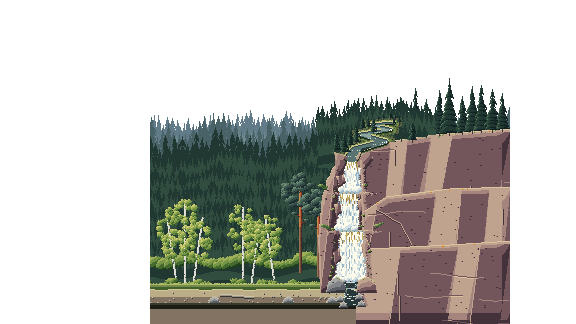
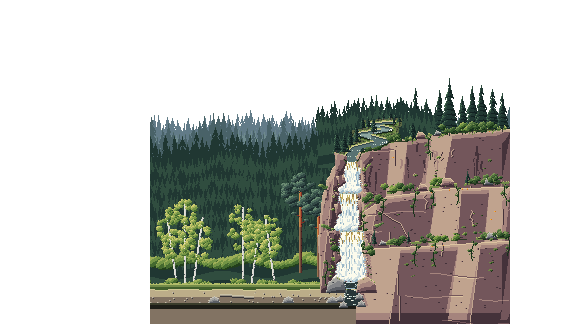
Bring the bluff's bare face to life
Rain stains under the ledges, branching cracks with grass and moss in
them, and along the bluff's real ledges a fringe of grass and moss with
shrubs, spruce saplings, resting boulders and hanging creepers
(life() in tools/studio/study_mountain.py, used by tools/scenery/bank.py).

Claude-Session: https://claude.ai/code/session_01AFuv3xBDCFNHg8cxuFG86Z

diff --git a/tools/studio/study_mountain.py b/tools/studio/study_mountain.py
@@ -362,7 +362,193 @@ def gorge(c):
     common(c)
 
 
+# ---------------------------------------------------------------- life on the rock
+
+GRANITE = ("pink-granite", "lichen")
+
+
+def rock_at(c, x, y):
+    p = c.at(x, y)
+    return p is not None and p[0] in GRANITE and (x, y) not in c.front
+
+
+def stains(c, xs, rnd):
+    """Dark streaks where water runs down the face after rain, starting
+    under a ledge and fading as they go."""
+    for x in xs:
+        y = next((y for y in range(120, 300) if rock_at(c, x, y)), None)
+        if y is None:
+            continue
+        y += rnd.randrange(4, 30)
+        for k in range(rnd.randrange(10, 34)):
+            for dx in (0, 1) if k < 12 else (0,):
+                if rock_at(c, x + dx, y + k) and (k < 8 or rnd.random() < 0.7):
+                    p = c.at(x + dx, y + k)
+                    c.put(x + dx, y + k, "pink-granite", max(0, p[1] - 1))
+            if rnd.random() < 0.15:
+                x += rnd.choice((-1, 1))
+
+
+def fissure(c, x, y, n, rnd, plants=True):
+    """A crack that wanders down the face and branches: a dark line with the
+    lit lip of the rock above and left of it, and something green growing
+    from it here and there."""
+    for k in range(n):
+        if not rock_at(c, x, y):
+            break
+        c.put(x, y, "pink-granite", 0)
+        if rock_at(c, x - 1, y - 1):
+            c.put(x - 1, y - 1, "pink-granite", 3)
+        if plants and rnd.random() < 0.06:
+            b.blob(c, x + rnd.choice((-1, 1)), y, rnd.randrange(1, 3), rnd.choice(("moss", "grass")),
+                   steps=(3, 2, 1, 0), rnd=rnd, flat=0.7)
+        if rnd.random() < 0.08 and n - k > 6:
+            fissure(c, x + rnd.choice((-1, 1)), y + 1, (n - k) // 2, rnd, plants)
+        y += 1
+        x += rnd.choice((-1, 0, 0, 0, 1))
+
+
+def ledges(c, x0, x1, y0, y1):
+    """The places on the face where something could rest or root: rock
+    with open air, or a lit ledge edge, just above it."""
+    out = []
+    for x in range(x0, x1):
+        for y in range(y0, y1):
+            p = c.at(x, y)
+            if rock_at(c, x, y) and p[1] >= 3 and rock_at(c, x, y + 2) and rock_at(c, x, y + 4):
+                out.append((x, y))
+    return out
+
+
+def boulder(c, x, y, w, mat, rnd):
+    """A boulder resting on a ledge, lit as one rounded mass, a dark line of
+    shadow under it."""
+    h = max(4, w * 2 // 3)
+    pts = [(x - w // 2, y), (x - w // 2 + 1, y - h + 2), (x - w // 4, y - h), (x + w // 4, y - h + 1), (x + w // 2, y - h // 2), (x + w // 2, y)]
+    m = b.poly_mask(pts)
+    b.pillow(c, m, mat, seed=x * 7 + y, flecks=False)
+    for xx in range(x - w // 2 - 1, x + w // 2 + 2):
+        if rock_at(c, xx, y + 1):
+            c.put(xx, y + 1, "pink-granite", 0)
+
+
+def tuft(c, x, y, rnd):
+    """Grass and sedge in a crack or on a ledge: a few blades, lit at the
+    tips on the sun's side."""
+    for k in range(rnd.randrange(3, 6)):
+        h = rnd.randrange(2, 5)
+        lean = rnd.choice((-1, 0, 1))
+        for j in range(h):
+            c.put(x + k - 2 + (lean if j > h // 2 else 0), y - j, "grass", 3 if j == h - 1 and k < 3 else 2 if j else 1)
+
+
+def shrub(c, x, y, rnd, mat="aspen-leaves"):
+    """A low bush rooted on a ledge: a few leaf clusters, darker at the root."""
+    for k in range(rnd.randrange(5, 9)):
+        b.blob(c, x + rnd.randrange(-7, 8), y - rnd.randrange(1, 7), rnd.randrange(2, 5), mat, steps=(3, 2, 1, 0), rnd=rnd, flat=0.8)
+    for k in range(-4, 5):
+        c.put(x + k, y, "floor", 1)
+
+
+def vine(c, x, y, n, rnd):
+    """A creeper hanging down the face from a ledge: a stem that sways a
+    pixel side to side, leaves in pairs and clusters along it, thinning to
+    a few at the tip."""
+    for k in range(n):
+        xx = x + round(1.5 * math.sin(k / 4 + x))
+        c.put(xx, y + k, "cedar-foliage", 0)
+        if k % 3 == 0 and rnd.random() < 1 - k / (n * 1.3):
+            side = 1 if (k // 3) % 2 else -1
+            c.put(xx + side, y + k, "cedar-foliage", 3 if side < 0 else 2)
+            c.put(xx + side * 2, y + k + 1, "cedar-foliage", 2 if side < 0 else 1)
+        if k % 7 == 2 and k < n - 4:
+            b.blob(c, xx + rnd.choice((-2, 2)), y + k, 2, "cedar-foliage", steps=(3, 2, 1, 0), rnd=rnd, flat=0.8)
+
+
+def sapling(c, x, y, h, rnd):
+    """A young spruce growing out of a crack, leaning out a little."""
+    b.spruce(c, x, y, h, "spruce-needles", seed=x * 11 + y, ratio=0.45, trunk=2)
+
+
+def life(c, seed=200):
+    """Brings the bare face of the bluff to life: rain stains under its
+    ledges, cracks that wander and branch with green in them, boulders
+    resting on its ledges, grass, shrubs and saplings rooted along them,
+    creepers hanging down from them, moss in its shade, and a little lichen."""
+    rnd = random.Random(seed)
+    stains(c, [rnd.randrange(214, 356) for _ in range(14)] + [rnd.randrange(170, 186) for _ in range(3)], rnd)
+    for _ in range(9):
+        x, y = rnd.randrange(216, 356), rnd.randrange(136, 250)
+        fissure(c, x, y, rnd.randrange(8, 24), rnd)
+    for _ in range(2):
+        fissure(c, rnd.randrange(170, 186), rnd.randrange(170, 260), rnd.randrange(10, 20), rnd)
+    # along each of the bluff's real ledges: its top edge and the tops of
+    # its stepped slabs, where soil gathers and things can root
+    lines = [[(214, 0), (362, 0)], [(212, 212), (236, 196), (300, 188), (362, 186)],
+             [(176, 262), (220, 248), (300, 244), (362, 240)]]
+    for li, line in enumerate(lines):
+        edge = []
+        for x in range(line[0][0], line[-1][0]):
+            if li == 0:
+                y = next((y for y in range(110, 200) if rock_at(c, x, y)), None)
+            else:
+                k = max(i for i in range(len(line) - 1) if line[i][0] <= x)
+                (ax, ay), (bx, by) = line[k], line[k + 1]
+                guess = round(ay + (by - ay) * (x - ax) / max(1, bx - ax))
+                y = next((y for y in range(guess - 3, guess + 5) if rock_at(c, x, y)), None)
+            if y is not None:
+                edge.append((x, y))
+        # a fringe of grass and moss in clumps along the edge
+        i = 0
+        while i < len(edge):
+            run = rnd.randrange(3, 14)
+            if rnd.random() < 0.65:
+                for x, y in edge[i:i + run]:
+                    c.put(x, y - 1, "grass", 2)
+                    c.put(x, y, "moss", 2)
+                    if rnd.random() < 0.4:
+                        c.put(x, y - 2, "grass", 3)
+            i += run + rnd.randrange(2, 8)
+        # then shrubs, boulders, saplings and tufts on it, creepers off it
+        last = -99
+        for x, y in edge:
+            if x - last < rnd.randrange(7, 13):
+                continue
+            last = x
+            r = rnd.random()
+            if r < 0.3:
+                shrub(c, x, y - 1, rnd, rnd.choice(("aspen-leaves", "cedar-foliage", "cedar-foliage")))
+            elif r < 0.42:
+                boulder(c, x, y, rnd.randrange(7, 13), rnd.choice(("grey-gneiss", "pink-granite")), rnd)
+            elif r < 0.52 and li > 0:
+                sapling(c, x, y, rnd.randrange(10, 17), rnd)
+            elif r < 0.8:
+                vine(c, x, y + 1, rnd.randrange(14, 38), rnd)
+            else:
+                tuft(c, x, y - 1, rnd)
+    # a few tufts and ferns in the cracks of the open face
+    for _ in range(10):
+        x, y = rnd.randrange(216, 356), rnd.randrange(140, 280)
+        if rock_at(c, x, y) and c.at(x, y)[1] == 0:
+            tuft(c, x, y, rnd)
+    # moss in the shade, a little lichen in the sun
+    for _ in range(40):
+        x, y = rnd.randrange(214, 358), rnd.randrange(136, 280)
+        p = c.at(x, y)
+        if rock_at(c, x, y) and p[1] <= 1:
+            b.blob(c, x, y, rnd.randrange(1, 3), "moss", steps=(2, 2, 1, 0), rnd=rnd, flat=0.6)
+        elif rock_at(c, x, y) and p[1] >= 3 and rnd.random() < 0.4:
+            c.put(x, y, "lichen", 2)
+            c.put(x + 1, y, "lichen", 1)
+
+
+def plateau_life(c):
+    plateau(c)
+    life(c)
+
+
 VERSIONS = {"A": ravine, "B": plateau, "C": gorge}
+LIFE = {"life": plateau_life}
 
 
 def export(name, fn):

diff --git a/tools/scenery/bank.py b/tools/scenery/bank.py
@@ -8,7 +8,10 @@ the river comes down a notch worn into the bluff's top and drops down
 three of the bluff's own ledges, among boulders at the foot, into a pool
 and out between stones to the lake. Above it (study 4, version B, the
 plateau river) the river winds toward us across the forested plateau in
-its own opening, with banks, gravel bars and trees on its far banks. Drawn by the study's tools
+its own opening, with banks, gravel bars and trees on its far banks. The
+bluff's face has life on it: rain stains, branching cracks with green in
+them, and along its ledges grass, shrubs, saplings, boulders and hanging
+creepers (study_mountain.life). Drawn by the study's tools
 (tools/studio/study_bank.py) from the materials library, in daylight; the
 game's time-of-day grade shades it.
 
@@ -25,4 +28,4 @@ import study_mountain as mountain  # noqa: E402
 
 def images():
     """(land, falls strip, anchors) for the art build."""
-    return s.images(s.version_c(mountain.plateau))
+    return s.images(s.version_c(mountain.plateau_life))

diff --git a/docs/studio/studies.md b/docs/studio/studies.md
@@ -197,6 +197,16 @@ behind the trees. It's in the game (`tools/scenery/bank.py`).
 - Put the ground under it: water crossing the haze of a far ridge
   floats.
 
+**Follow-up, life on the bluff:** you asked for texture on the bare side
+of the bluff: foliage, cracks, boulders, vines. Added (`life()` in
+`tools/studio/study_mountain.py`): dark rain stains running down from
+the ledges; cracks that wander and branch, with grass and moss in them;
+and along the bluff's real ledges (its top edge and the tops of its
+stepped slabs) a fringe of grass and moss with shrubs, spruce saplings,
+resting boulders and creepers hanging down. The first try scattered them
+over the open face, where they floated; plants and boulders need a ledge
+to sit on.
+
 <!--
 ## Study N: <subject> (<date>)
 
